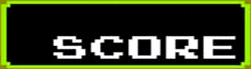
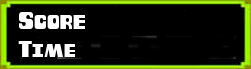
Adding difficulty function, adjusing score

Changed region(s): [[0.0558, 0.5217, 0.9482, 0.8696], [0.0558, 0.1739, 0.3625, 0.4348]]

diff --git a/src/duckhunt/GameState.java b/src/duckhunt/GameState.java
@@ -34,6 +34,7 @@ public class GameState extends BasicGameState {
     float scale = 1;
     Music gameMusic = null;
     int time;
+    private int difficulty = 1;
         
     private int stateId = -1;
     private int score = 0;
@@ -45,6 +46,20 @@ public class GameState extends BasicGameState {
     @Override
     public int getID() {
         return this.stateId;
+    }
+    
+    public int setDifficulty(int difficulty) {
+        if (difficulty == 1) {
+           difficulty = 1; 
+        } 
+        else if (difficulty == 2) {
+            difficulty = 2;
+        }
+        else if (difficulty == 3) {
+            difficulty = 3;
+        }
+        
+        return difficulty;
     }
 
     @Override public void init(GameContainer gc, StateBasedGame sbg) throws SlickException
@@ -85,8 +100,8 @@ public class GameState extends BasicGameState {
                 }
             }
                
-            g.drawString("Score: " + Integer.toString(score), 100, 600);
-            g.drawString("Score: " + Integer.toString(60 - (time/1000)), 100, 620);
+            g.drawString(Integer.toString(score), 150, 615);
+            g.drawString(Integer.toString(60 - (time/1000)), 150, 640);
 
         } catch (OpenGLException ex) {
             // just ignore it - prevents random crashes 
@@ -101,7 +116,7 @@ public class GameState extends BasicGameState {
 
         time += delta;
         
-        cat.think(5);
+        cat.think(delta * difficulty);
                 
         Input input = gc.getInput();
         if (input.isMouseButtonDown(Input.MOUSE_LEFT_BUTTON)) {
@@ -121,14 +136,13 @@ public class GameState extends BasicGameState {
         if ( input.isKeyPressed(Input.KEY_M) & gameMusic.paused() == false )
         {
              gameMusic.pause();
-             System.out.println("Music is paused");
         }
         if ( input.isKeyPressed(Input.KEY_N) & gameMusic.paused() == true )
         {
-             System.out.println("Trying to unpause");
              gameMusic.loop();
         }
         
+        //Timer
         if ((time / 1000) > 30) {
             sbg.enterState(2);
         }
